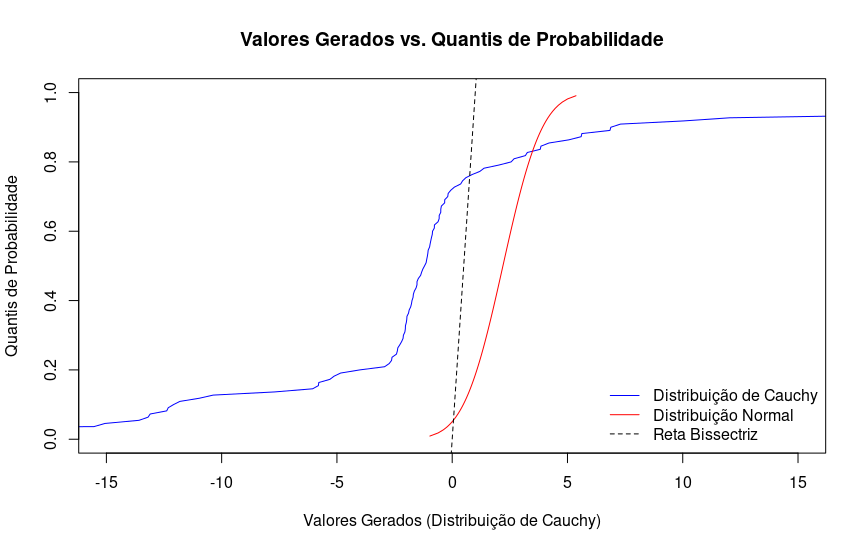
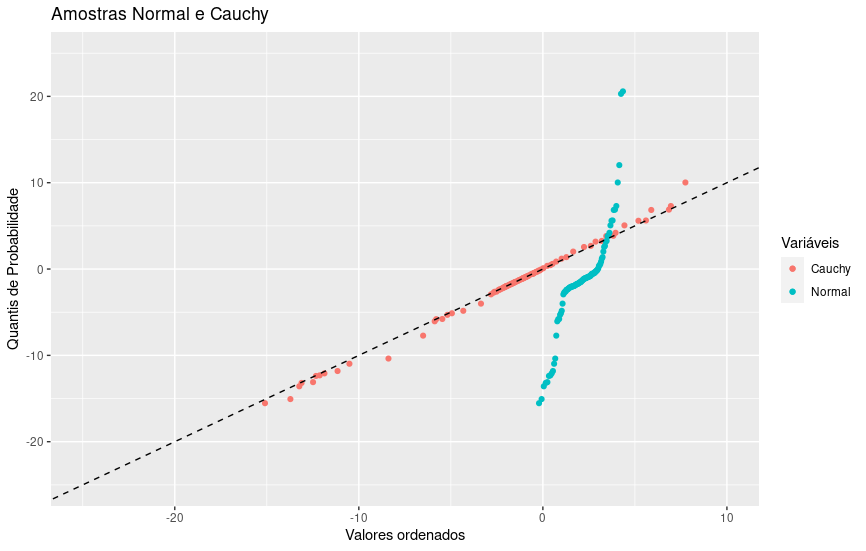
Gráfico novo

diff --git a/Exercício 8.md b/Exercício 8.md
@@ -1,40 +1,37 @@
 # Exercício 8
 ```Rstudio
+library(ggplot2)
+
 # Fixar a semente
 set.seed(1961)
 
 # Definir os parâmetros da distribuição de Cauchy
 localizacao_cauchy <- -1.4
 escala_cauchy <- 1.8
+n <- 109
 
 # Gerar a amostra da distribuição de Cauchy
-amostra_cauchy <- rcauchy(109, location = localizacao_cauchy, scale = escala_cauchy)
+sample_cauchy <- rcauchy(n, location = localizacao_cauchy, scale = escala_cauchy)
 
 # Ordenar os valores da amostra de Cauchy
-amostra_ordenada_cauchy <- sort(amostra_cauchy)
+sample_ordered_cauchy <- sort(sample_cauchy)
 
 # Gerar os quantis de probabilidade da distribuição de Cauchy
-quantis_cauchy <- seq(1, 109) / (109 + 1)
+quantis <- seq(1, n) / (n + 1)
+
+#Cálculo dos quantis da distribuição de Cauchy
+cauchy <- quantile(sample_ordered_cauchy,quantis)
 
 # Gerar uma amostra da distribuição normal
-amostra_normal <- qnorm(quantis_cauchy, mean = 2.2, sd = sqrt(1.8))
+normal <- qnorm(quantis, mean = 2.2, sd = sqrt(1.8))
 
-# Ordenar os valores da amostra normal
-amostra_ordenada_normal <- sort(amostra_normal)
+cauchydata <- data.frame(Quantil = sample_ordered_cauchy, Valor = cauchy)
+normaldata <- data.frame(Quantil = sample_ordered_cauchy, Valor = normal)
 
-# Gerar os quantis de probabilidade da distribuição normal
-quantis_normal <- seq(1, 109) / (109 + 1)
-
-# Criar o gráfico
-plot(amostra_ordenada_cauchy, quantis_cauchy, type = "l", col = "blue",
-     xlab = "Valores Gerados (Distribuição de Cauchy)", ylab = "Quantis de Probabilidade",
-     main = "Valores Gerados vs. Quantis de Probabilidade",
-     xlim = c(-15, 15), ylim = c(0, 1))
-lines(amostra_ordenada_normal, quantis_normal, type = "l", col = "red")
-abline(a = 0, b = 1, lty = 2)
-
-# Adicionar legenda
-legend("bottomright", legend = c("Distribuição de Cauchy", "Distribuição Normal", "Reta Bissectriz"),
-       col = c("blue", "red", "black"), lty = c(1, 1, 2), bty = "n")
+ggplot() + geom_point(data = cauchydata, aes(x= Valor, y = Quantil, color = "Cauchy")) +
+  geom_point(data = normaldata, aes(x= Valor, y = Quantil, color = "Normal")) +
+  geom_abline(intercept = 0, slope = 1, linetype = "dashed") + 
+  labs(y = "Quantis de Probabilidade", x = "Valores ordenados", title = "Amostras Normal e Cauchy") +
+  guides(color = guide_legend(title = "Variáveis")) + xlim(-25, 10) + ylim(-25, 25)
   ```
-<img src="/8.png" width="65%">
+<img src="8.png" width="65%">
